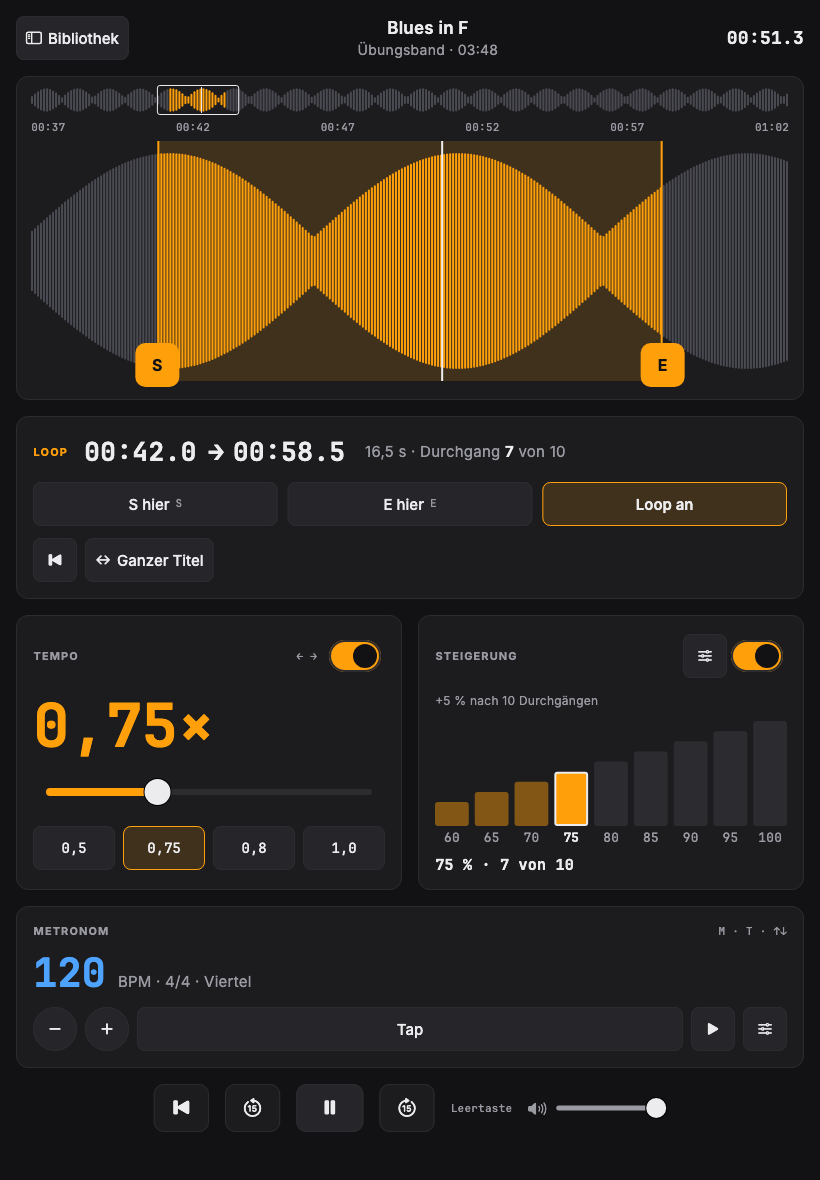
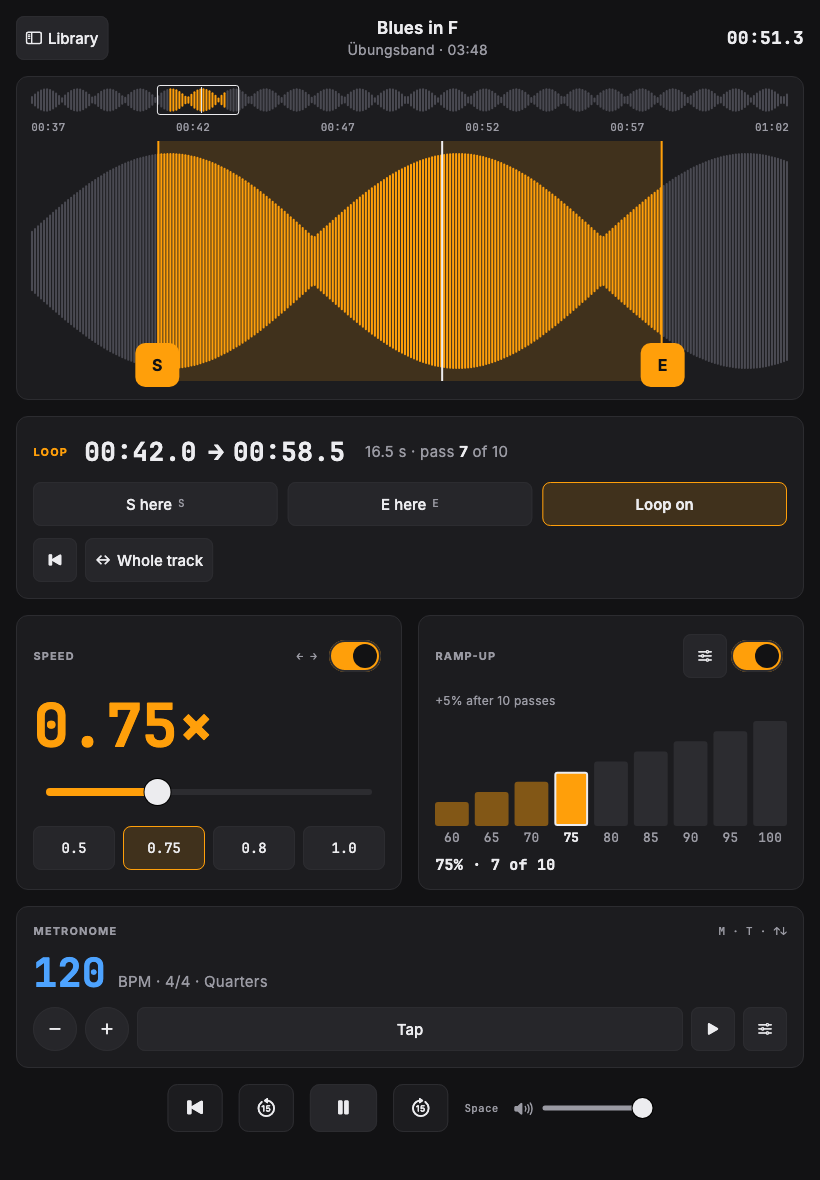
Screenshot-Knopf mit Text aus den ARB-Dateien (#47)

diff --git a/app/tool/screenshots_test.dart b/app/tool/screenshots_test.dart
@@ -9,6 +9,7 @@ import 'package:flutter/services.dart';
 import 'package:flutter_test/flutter_test.dart';
 import 'package:material_ui/material_ui.dart';
 import 'package:woodshed_player/ui/home_page.dart';
+import 'package:woodshed_player/ui/messages.dart';
 import 'package:woodshed_player/ui/style.dart';
 
 import '../test/fakes.dart';
@@ -85,13 +86,17 @@ void main() {
         await tester.pumpWidget(
           MaterialApp(
             debugShowCheckedModeBanner: false,
+            // #47/AK2: fixed language (English, the default), independent of the system language.
+            locale: const Locale('en'),
+            localizationsDelegates: testDelegates,
+            supportedLocales: testLocales,
             theme: woodshedTheme(b),
             home: HomePage(
               controller: app.controller,
               recordingButton: name == 'desktop'
                   ? Builder(
                       builder: (context) => BorderedButton(
-                        label: 'Aufnahme',
+                        label: context.l10n.recording,
                         icon: WsIcons.record,
                         onPressed: () {},
                       ),

diff --git a/app/test/english_dev_texts_test.dart b/app/test/english_dev_texts_test.dart
@@ -34,7 +34,6 @@ const _allowed = <(String, String)>{
   ('app/tool/screenshots_test.dart', "'Übungsband'"),
   ('app/tool/screenshots_test.dart', "'Etüde in A-Moll'"),
   ('app/tool/screenshots_test.dart', "'Arpeggio-Übung 14'"),
-  ('app/tool/screenshots_test.dart', "'Aufnahme'"),
   // German words that the English error texts must not contain (#46).
   ('core/tests/player_tests.cpp', '"datei"'),
   ('core/tests/player_tests.cpp', '"fehler"'),

diff --git a/README.md b/README.md
@@ -34,7 +34,7 @@ Die neue App für alle Plattformen (Plan: `docs/UMBAUPLAN-FLUTTER.md`) hat diese
 | ![Desktop, dunkel](docs/screenshots/studio-desktop-dark.png) | ![Tablet, dunkel](docs/screenshots/studio-tablet-dark.png) | ![Phone, dunkel](docs/screenshots/studio-phone-dark.png) |
 | ![Desktop, hell](docs/screenshots/studio-desktop-light.png) | ![Tablet, hell](docs/screenshots/studio-tablet-light.png) | ![Phone, hell](docs/screenshots/studio-phone-light.png) |
 
-Die Screenshots zeigen erfundene Titel und eine erzeugte Wellenform (`cd app && flutter test tool/screenshots_test.dart --update-goldens`).
+Die Screenshots zeigen die englische Oberfläche mit erfundenen Titeln und einer erzeugten Wellenform; sie entstehen unabhängig von der Systemsprache (`cd app && flutter test tool/screenshots_test.dart --update-goldens`).
 
 | Funktion | Bedienung |
 | --- | --- |
